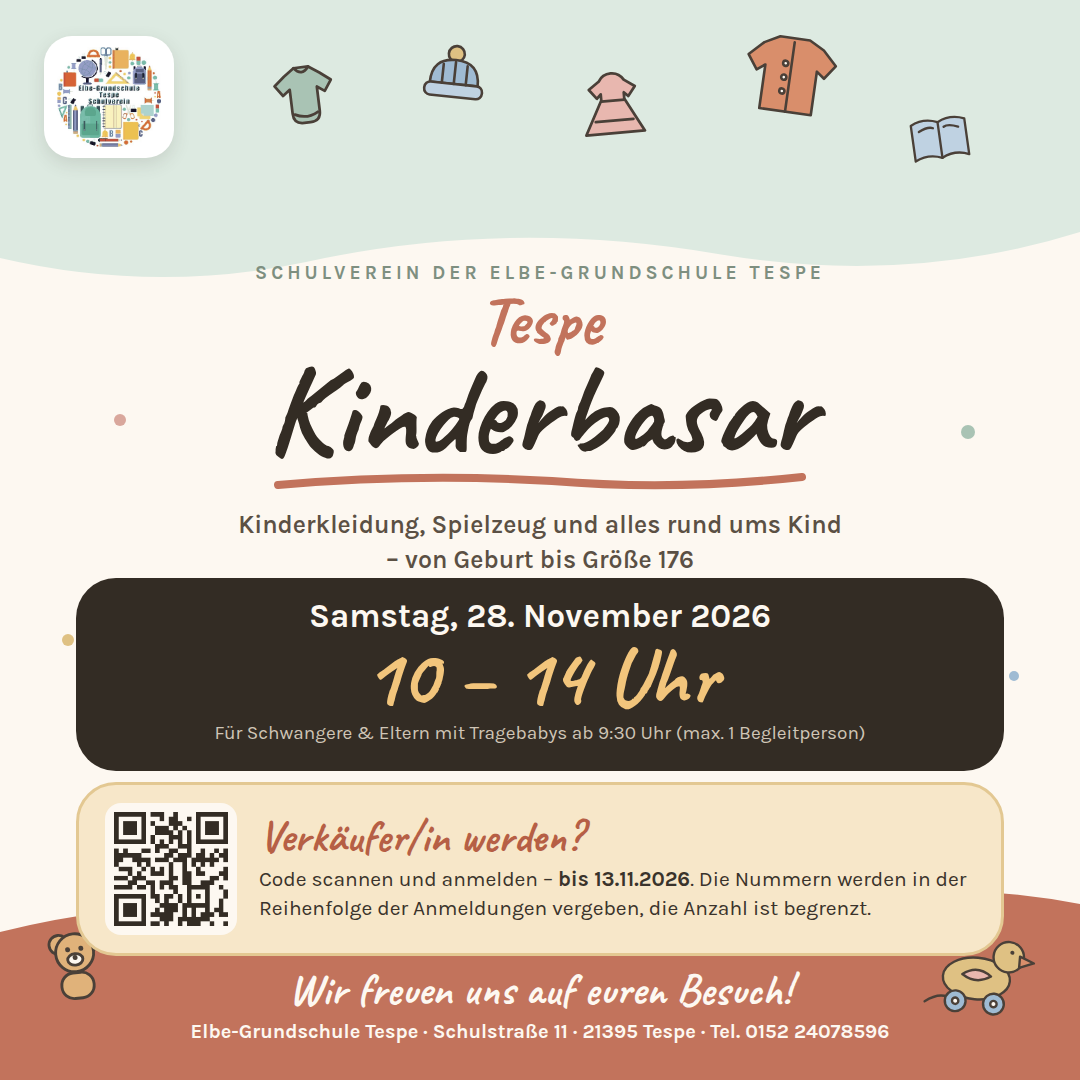
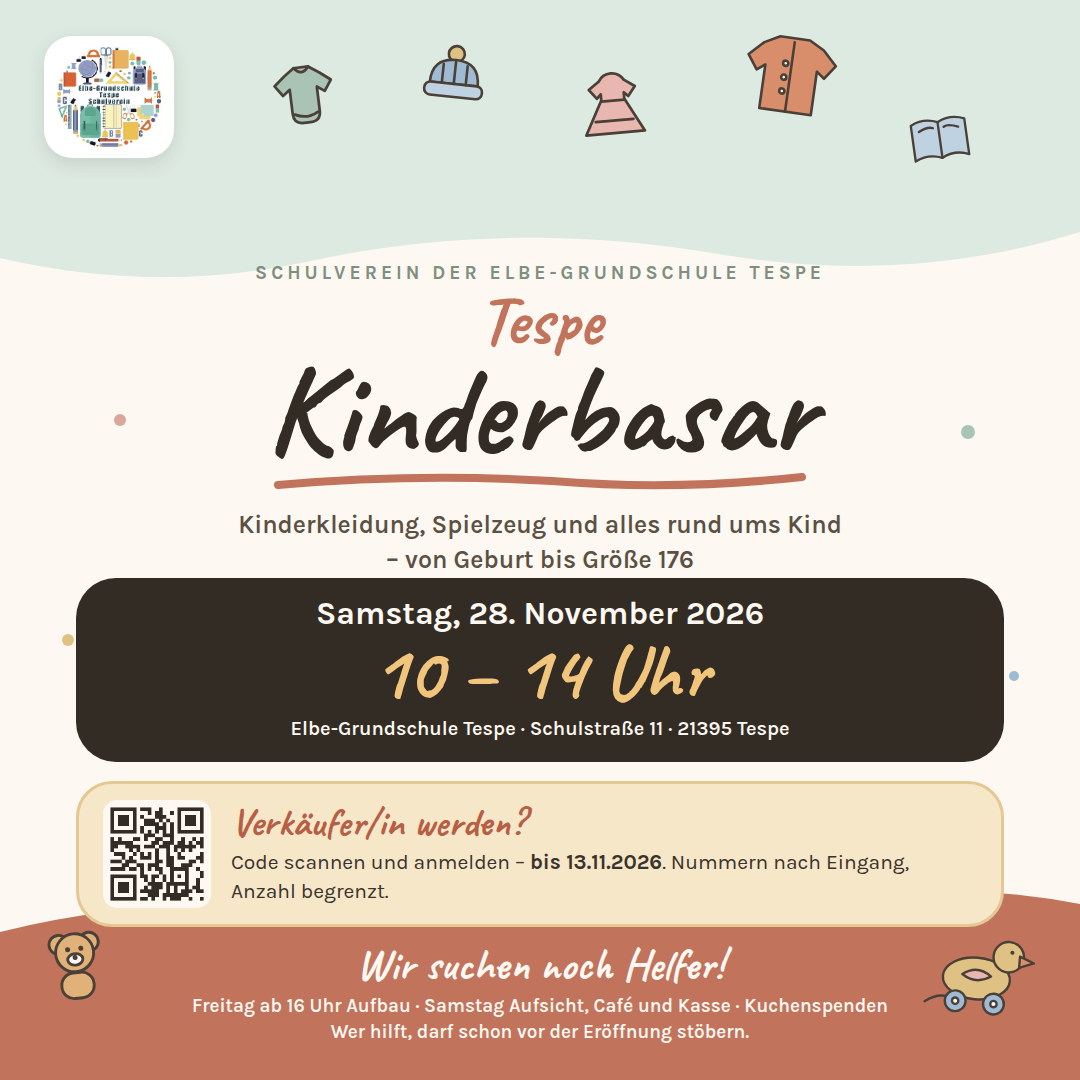
Add files via upload

Changed region(s): [[0.0611, 0.55, 0.9472, 0.9778], [0.9167, 0.6722, 0.9472, 0.7028]]

diff --git a/basar.html b/basar.html
@@ -4,14 +4,14 @@
 <meta charset="utf-8">
 <meta name="viewport" content="width=device-width, initial-scale=1, viewport-fit=cover">
 <title>Tespe Kinderbasar – 28. November 2026</title>
-<meta name="description" content="Tespe Kinderbasar am Samstag, 28. November 2026, 10 bis 14 Uhr in der Elbe-Grundschule Tespe. Kinderkleidung, Spielzeug und alles rund ums Kind. Anmeldung für Verkäufer bis 13. November.">
+<meta name="description" content="Tespe Kinderbasar am Samstag, 28. November 2026, 10 bis 14 Uhr in der Elbe-Grundschule Tespe. Anmeldung für Verkäufer bis 13. November – und wir suchen noch Helfer.">
 <meta name="theme-color" content="#C2735C">
 <link rel="icon" href="icon-192.png">
 <link rel="apple-touch-icon" href="icon-192.png">
 
 <meta property="og:type" content="website">
 <meta property="og:title" content="Tespe Kinderbasar – Samstag, 28. November 2026">
-<meta property="og:description" content="10 bis 14 Uhr in der Elbe-Grundschule Tespe. Kinderkleidung, Spielzeug und alles rund ums Kind. Verkäufer können sich bis zum 13. November anmelden.">
+<meta property="og:description" content="10 bis 14 Uhr in der Elbe-Grundschule Tespe. Kinderkleidung, Spielzeug und alles rund ums Kind. Verkäufer anmelden bis 13. November – und wir suchen noch Helfer.">
 <meta property="og:url" content="https://schulvereinegs.github.io/basar.html">
 <meta property="og:image" content="https://schulvereinegs.github.io/basar-vorschau.png">
 <meta property="og:locale" content="de_DE">
@@ -54,6 +54,7 @@
   .kasten{border-radius:22px; padding:16px 20px; margin-top:20px;}
   .kasten h2{margin:0 0 6px; font-size:19px;}
   .kasten p{margin:0;}
+  .kasten a{color:var(--terra-dunkel); font-weight:600;}
   .kasten ul{margin:6px 0 0; padding-left:20px;}
   .kasten li{margin-bottom:4px;}
   .sand{background:var(--sand); border:2px solid var(--sand-rand);}
@@ -94,7 +95,7 @@
   <a class="knopf haupt" href="https://tally.so/r/PdKO6b">Als Verkäufer/in anmelden
     <span class="zusatz">Anmeldeschluss 13. November 2026</span></a>
   <a class="knopf zweit" href="https://tally.so/r/Ek9WXN">Beim Basar mithelfen
-    <span class="zusatz">Aufbau, Aufsicht, Kaffee &amp; Kuchen, Kasse</span></a>
+    <span class="zusatz">Wir suchen noch Helfer für Aufbau, Aufsicht, Café und Kasse</span></a>
 
   <div class="kasten sand">
     <h2>Selbst verkaufen</h2>
@@ -110,12 +111,21 @@
   </div>
 
   <div class="kasten salbei">
-    <h2>Basar-Café und Helfer</h2>
-    <p>Es gibt Kaffee, Kuchen und Brezeln. Dafür suchen wir noch Kuchenspenden und helfende
-      Hände – beim Aufbau am Freitag ab 16 Uhr und am Samstag ab 9 Uhr für Aufsicht,
-      Verkauf und Kasse.</p>
-    <p style="margin-top:8px"><strong>Kleines Dankeschön:</strong> Wer hilft, darf schon vor
-      der Eröffnung stöbern.</p>
+    <h2>Wir suchen noch Helfer!</h2>
+    <p>Ohne helfende Hände geht so ein Basar nicht. Für diese Aufgaben brauchen wir noch
+      Unterstützung:</p>
+    <ul>
+      <li><strong>Freitag, 27. November ab 16 Uhr:</strong> Aufbau und Einsortieren,
+        8 bis 10 Personen</li>
+      <li><strong>Samstag, 28. November ab 9 Uhr:</strong> Aufsicht (5–6), Kaffee- und
+        Kuchenverkauf (2–4), Kasse (2–3)</li>
+      <li><strong>Kuchenspenden</strong> fürs Basar-Café</li>
+      <li><strong>Kleiderstangen</strong> als Leihgabe</li>
+    </ul>
+    <p style="margin-top:10px"><strong>Kleines Dankeschön:</strong> Wer hilft, darf schon vor
+      der Eröffnung stöbern – am Freitagabend oder am Samstag vor dem Einlass.</p>
+    <p style="margin-top:10px">Auch eine Stunde hilft uns weiter. Tragt euch einfach über den
+      Knopf oben ein.</p>
   </div>
 
   <div class="kasten hell">
